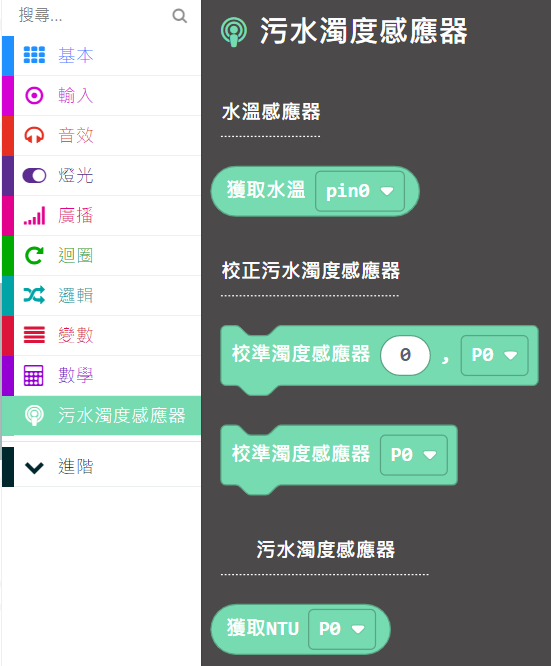
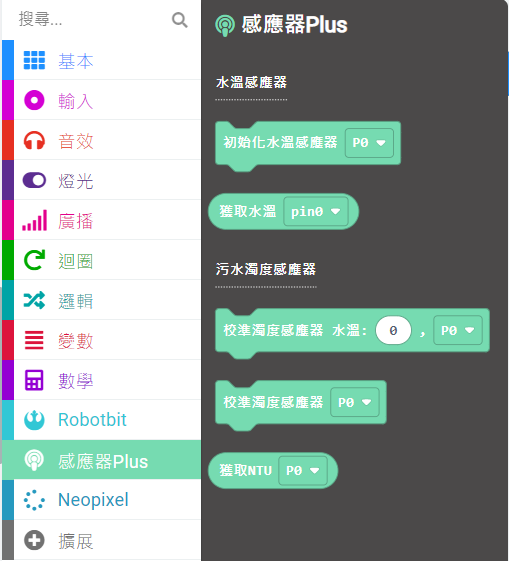
adjust sugar, turbidity

diff --git a/functional_module/nekoUltrasound.md b/functional_module/nekoUltrasound.md
@@ -2,9 +2,11 @@
 
 貓耳超聲波 (HKBM8014A)
 
+![](./images/ultrasound3.png)
+
 ![](./images/ultrasound2.png)
 
-![](./images/ultrasound3.png)
+![](./images/ultrasound_v3_render.png)
 
 這是一隻超聲波測距模組。
 
@@ -34,15 +36,15 @@
 
 ## Robotbit 2.2
 
-### 超聲波模組v2
+### 超聲波模組v1
 
-超聲波模組v2需要接A(RGB燈)和D(超聲波)接口。
+超聲波模組v1需要接A(RGB燈)和D(超聲波)接口。
 
 ![](./images/ultraSoundv2_wire.png)
 
-### 超聲波模組v1
+### 超聲波模組v2
 
-超聲波模組v1只需要接Ultr接口。
+超聲波模組v2只需要接Ultr接口。
 
 ![](./images/ultraSoundv1_wire.png)
 
@@ -60,7 +62,7 @@
 
 ### 在擴展頁直接搜尋robotbit (robotbit已經過微軟認證，可以直接搜尋)
 
-![](./images/robotbit_search.png)
+![](./images/robotbit_search.gif)
 
 ### 你亦可以用插件地址搜尋
 
@@ -72,13 +74,19 @@ robotbit插件：https://github.com/KittenBot/pxt-robotbit
 
 ![](./images/ultraSound_blocks.png)
 
-#### 距離檢測編程：
+#### 距離檢測編程(有洞版)：
+
+![](./images/ultraSound_v3_code.png)
+
+[參考程式網址](https://makecode.microbit.org/_Xoggf6RR4JVs)
+
+#### 距離檢測編程(RGB)：
 
 ![](./images/ultraSound_code1.png)
 
 [參考程式網址](https://makecode.microbit.org/_Lt021WgXuWfz)
 
-### RGB燈編程(只限v2)：
+### RGB燈編程(RGB)：
 
 ![](./images/ultraSound_code2.png)
 
@@ -122,7 +130,6 @@ Robotbit插件可能會不定時推出更新，改進功能。亦有時候我們
 
 詳情請參考: [Makecode插件版本更換](../../Makecode/makecode_extensionUpdate)
 
-
 ## KittenBlock編程教學
 
 ![](./PWmodules/images/kbbanner.png)
@@ -139,10 +146,3 @@ Robotbit插件可能會不定時推出更新，改進功能。亦有時候我們
 
 ![](./images/ultraSound_code5.png)
 
-## Mu Editor編程教學
-
-#### 距離檢測編程：
-
-![](./images/ultraSound_code6.png)
-
-    超聲波模組的原理是使用數位寫入發射訊號，然後量度訊號反彈回到模組的時間，然後將時間乘以音波速度得知距離。

diff --git a/functional_module/sugar/sugar_button.md b/functional_module/sugar/sugar_button.md
@@ -26,7 +26,7 @@
 
 ### 在擴展頁直接搜尋sugar (sugar已經過微軟認證，可以直接搜尋)
 
-![](./images/sugar_search.png)
+![](./images/sugar_search.gif)
 
 ### 你亦可以用插件地址搜尋
 
@@ -37,6 +37,10 @@ Sugar插件：https://github.com/KittenBot/pxt-sugar
 ![](./images/button_mc_code.png)
 
 [參考程式](https://makecode.microbit.org/_EUeXbC8c5195)
+
+![](./images/button_mc_code2.png)
+
+[參考程式](https://makecode.microbit.org/_a3wE97V67EWA)
 
 ### Kittenblock 編程教學
 

diff --git a/functional_module/turbidity.md b/functional_module/turbidity.md
@@ -24,7 +24,11 @@
 
 ![](./PWmodules/images/mcbanner.png)
 
-### 加載污水混濁度感應器插件：https://github.com/kittenbothk/pxt-KittenTurbidity
+### 在擴展頁直接搜尋Robotbit (Robotbit已經過微軟認證，可以直接搜尋)
+
+![](./images/robotbit_search.gif)
+
+### 感應器Plus插件：https://github.com/kittenbothk/pxt-SensorPlus
 
 ### [詳細方法](../Makecode/powerBrickMC)
 

diff --git a/functional_module/watertemp.md b/functional_module/watertemp.md
@@ -21,7 +21,11 @@
 
 ![](./PWmodules/images/mcbanner.png)
 
-### 加載水溫感應器插件：https://github.com/kittenbothk/pxt-KittenTurbidity
+### 在擴展頁直接搜尋Robotbit (Robotbit已經過微軟認證，可以直接搜尋)
+
+![](./images/robotbit_search.gif)
+
+### 感應器Plus插件：https://github.com/kittenbothk/pxt-SensorPlus
 
 ### [詳細方法](../Makecode/powerBrickMC)
 

diff --git a/functional_module/sugar/sugar_asr.md b/functional_module/sugar/sugar_asr.md
@@ -92,7 +92,7 @@
 
 ### 在擴展頁直接搜尋sugar (sugar已經過微軟認證，可以直接搜尋)
 
-![](./images/sugar_search.png)
+![](./images/sugar_search.gif)
 
 ### 你亦可以用插件地址搜尋
 

diff --git a/functional_module/sugar/sugar_env.md b/functional_module/sugar/sugar_env.md
@@ -28,7 +28,7 @@
 
 ### 在擴展頁直接搜尋sugar (sugar已經過微軟認證，可以直接搜尋)
 
-![](./images/sugar_search.png)
+![](./images/sugar_search.gif)
 
 ### 你亦可以用插件地址搜尋
 

diff --git a/functional_module/sugar/sugar_fire.md b/functional_module/sugar/sugar_fire.md
@@ -26,7 +26,7 @@
 
 ### 在擴展頁直接搜尋sugar (sugar已經過微軟認證，可以直接搜尋)
 
-![](./images/sugar_search.png)
+![](./images/sugar_search.gif)
 
 ### 你亦可以用插件地址搜尋
 

diff --git a/functional_module/sugar/sugar_joystick.md b/functional_module/sugar/sugar_joystick.md
@@ -29,7 +29,7 @@
 
 ### 在擴展頁直接搜尋sugar (sugar已經過微軟認證，可以直接搜尋)
 
-![](./images/sugar_search.png)
+![](./images/sugar_search.gif)
 
 ### 你亦可以用插件地址搜尋
 

diff --git a/functional_module/sugar/sugar_light.md b/functional_module/sugar/sugar_light.md
@@ -26,7 +26,7 @@
 
 ### 在擴展頁直接搜尋sugar (sugar已經過微軟認證，可以直接搜尋)
 
-![](./images/sugar_search.png)
+![](./images/sugar_search.gif)
 
 ### 你亦可以用插件地址搜尋
 

diff --git a/functional_module/sugar/sugar_line.md b/functional_module/sugar/sugar_line.md
@@ -27,7 +27,7 @@
 
 ### 在擴展頁直接搜尋sugar (sugar已經過微軟認證，可以直接搜尋)
 
-![](./images/sugar_search.png)
+![](./images/sugar_search.gif)
 
 ### 你亦可以用插件地址搜尋
 

diff --git a/functional_module/sugar/sugar_magnet.md b/functional_module/sugar/sugar_magnet.md
@@ -26,7 +26,7 @@
 
 ### 在擴展頁直接搜尋sugar (sugar已經過微軟認證，可以直接搜尋)
 
-![](./images/sugar_search.png)
+![](./images/sugar_search.gif)
 
 ### 你亦可以用插件地址搜尋
 

diff --git a/functional_module/sugar/sugar_pir.md b/functional_module/sugar/sugar_pir.md
@@ -27,7 +27,7 @@
 
 ### 在擴展頁直接搜尋sugar (sugar已經過微軟認證，可以直接搜尋)
 
-![](./images/sugar_search.png)
+![](./images/sugar_search.gif)
 
 ### 你亦可以用插件地址搜尋
 
